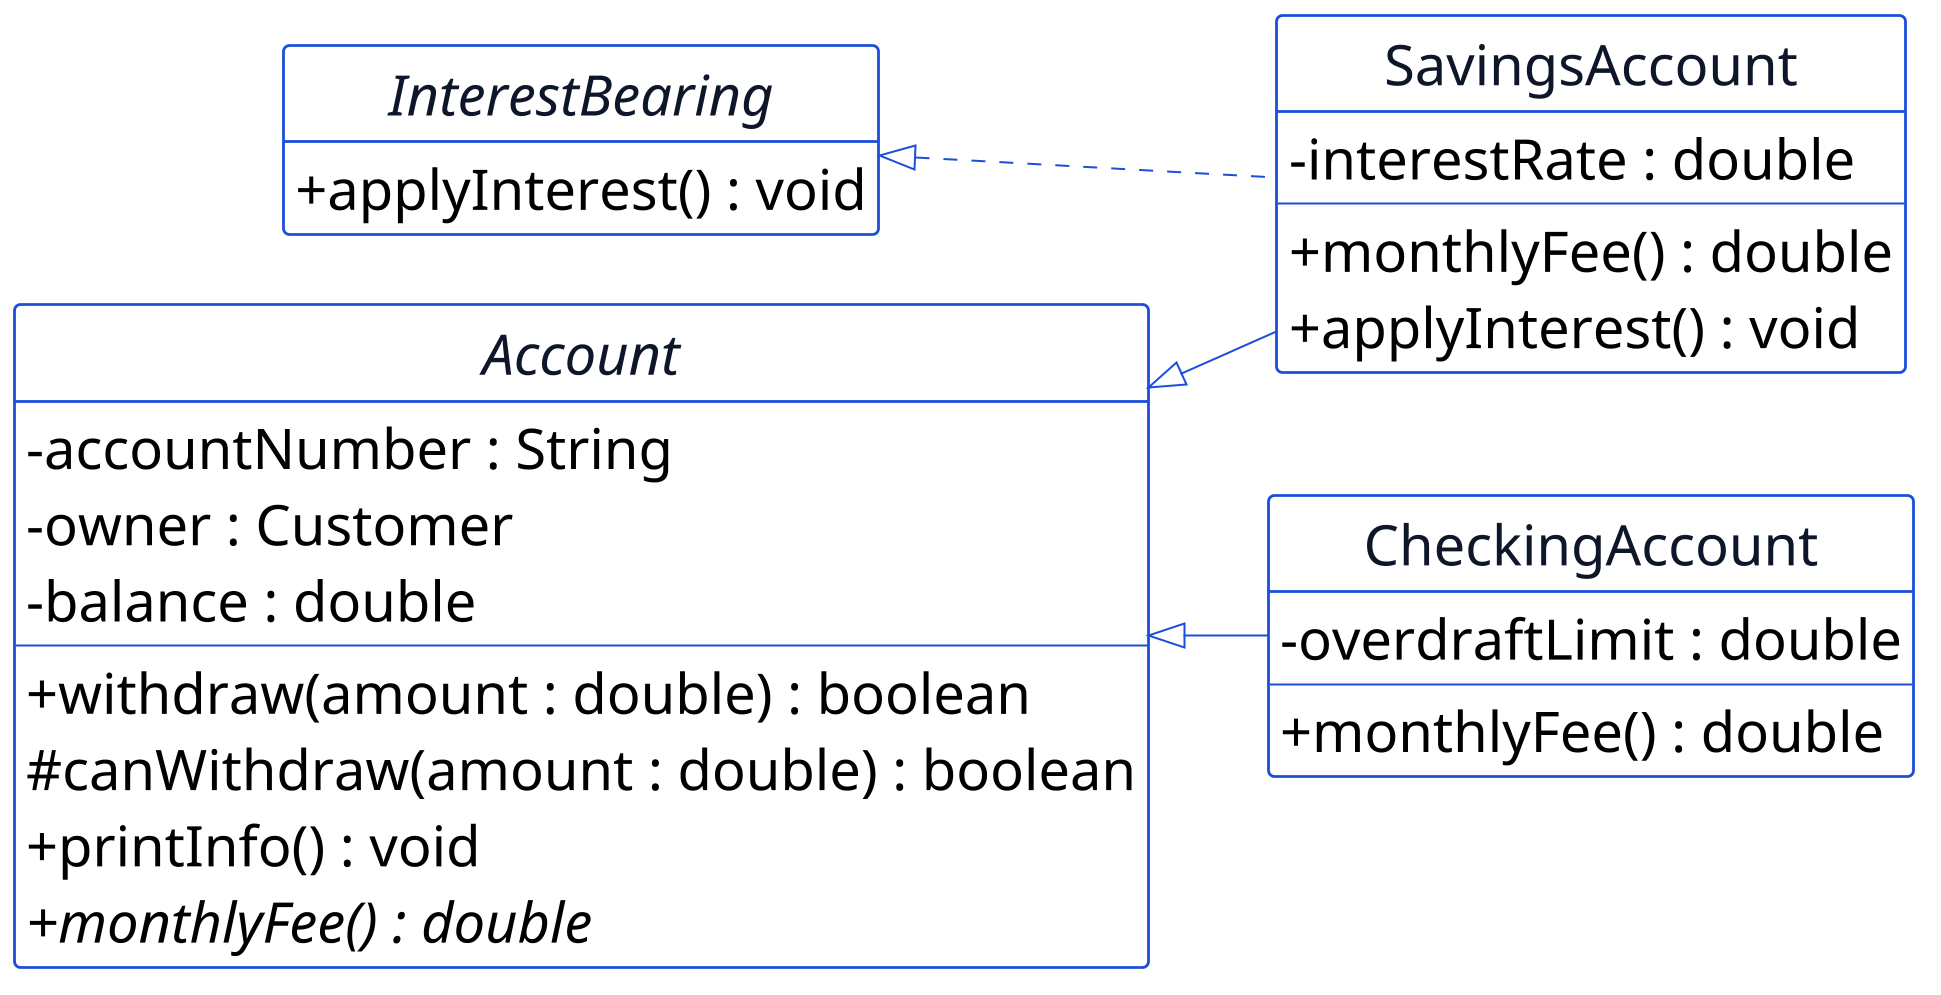
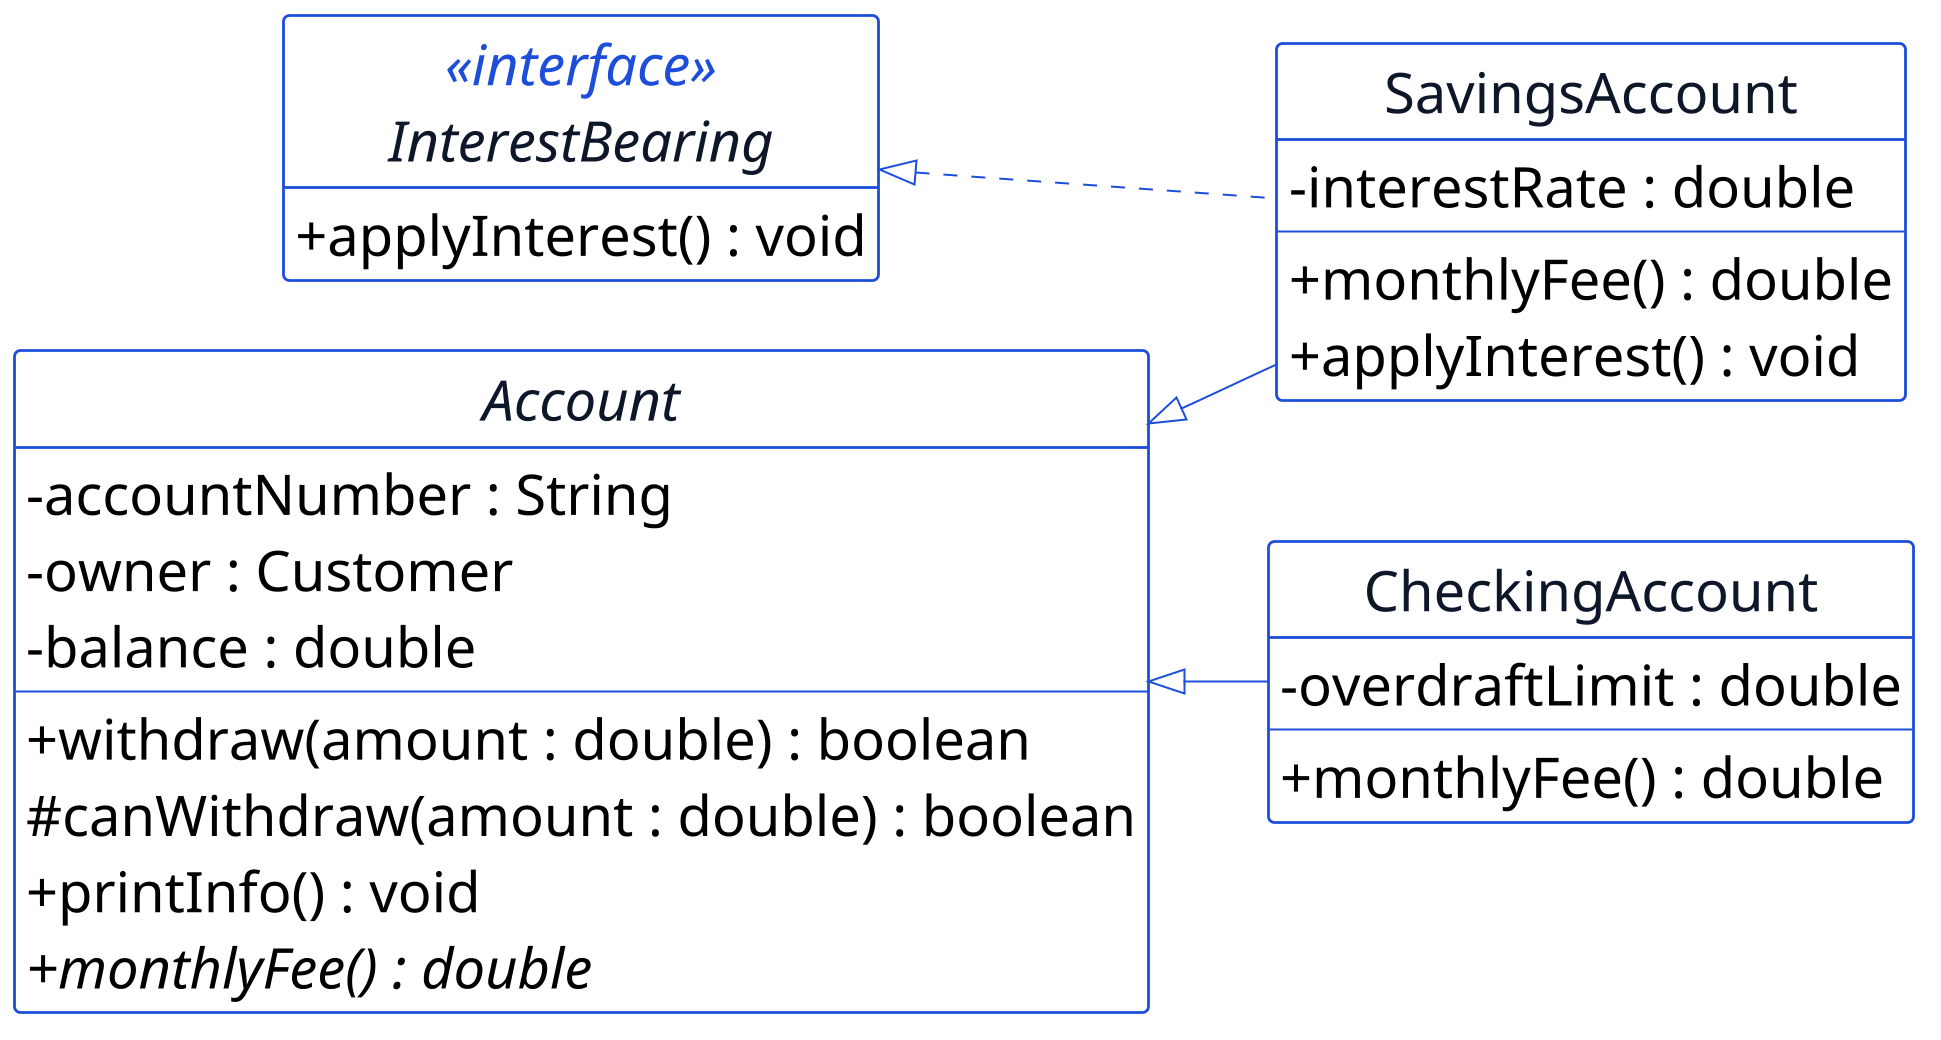
Pertemuan 9 slides: review fixes, interface stereotype in UML
- Label interfaces with <<interface>> in the P9/P10 UML sources and
  regenerate PNGs, so they no longer look like abstract classes
- Fix abstract-method rule wording, add note that interface methods are
  implicitly public
- Replace exercise items that repeated the preceding Common Mistake slide
- Use getTitle() in the LibraryItem trace, clarify continuity with P6/P7
  and the Renewable assignment, fix EN grammar and "library" ambiguity

diff --git a/slides/en/pertemuan-09-kelas-abstrak-dan-interface.md b/slides/en/pertemuan-09-kelas-abstrak-dan-interface.md
@@ -167,7 +167,7 @@ An <b>abstract class</b> is a class that is not yet complete. Its objects may no
 
 ## Why Does This Matter?
 
-A display library is used by hundreds of applications. Every component must know how to draw itself. Without abstract classes, a component that does not yet know how to draw could still be created, and the mistake would only show up when a user runs the application.
+A UI framework is used by hundreds of applications. Every component must know how to draw itself. Without abstract classes, a component that does not yet know how to draw could still be created, and the mistake would only show up when a user runs the application.
 
 <div class="term-box">
 An abstract class moves that mistake to compile time. The compiler rejects it, rather than a user discovering it.
@@ -181,7 +181,7 @@ An abstract class moves that mistake to compile time. The compiler rejects it, r
 An <b>abstract method</b> has only a signature, with no body. Every subclass must fill it in through overriding. Until it is filled in, that subclass cannot be compiled.
 </div>
 
-An abstract method may only be written inside an abstract class.
+Among classes, only an abstract class may contain an abstract method. A subclass that is also abstract may leave it empty.
 
 ---
 
@@ -253,7 +253,7 @@ Output: `small circle: 12.56`
 `Shape` is an abstract class with an abstract method `area()`. Decide **valid** or **error**:
 
 1. `Shape s = new Shape("x");`
-2. `class Square extends Shape { }` (without `area()`)
+2. `Shape[] shapes = new Shape[3];`
 3. `Shape s = new Circle("c", 1);`
 
 ---
@@ -261,7 +261,7 @@ Output: `small circle: 12.56`
 ## Exercise Answer
 
 1. **Error.** An object of an abstract class may not be created.
-2. **Error.** `Square` has not filled in the abstract method `area()`.
+2. **Valid.** This only creates an array that can hold `Shape` references. No `Shape` object has been created yet.
 3. **Valid.** The object is a `Circle`, a complete class. Its variable may be of type `Shape`.
 
 ---
@@ -329,13 +329,17 @@ class Phone implements Chargeable {
 }
 ```
 
+<div class="tip-box">
+Methods in an interface are automatically <code>public</code>, so a class that fills them in must also write <code>public</code>.
+</div>
+
 ---
 
 ## Interfaces in a Class Diagram
 
 ![h:280 Chargeable implemented by Phone and ElectricCar](../assets/uml/p09-chargeable.png)
 
-An interface's name is also written in italics. The difference is in the arrow: it is dashed, pointing from the class to the interface it implements.
+An interface carries the label `«interface»` above its name. Its arrow is dashed with a hollow triangle head, pointing from the class to the interface it implements.
 
 ---
 
@@ -353,7 +357,7 @@ Phone is charging
 Car is charging
 ```
 
-The loop only knows `Chargeable`. Each object runs its own `charge()`.
+The loop only knows `Chargeable`. Each object runs its own `charge()`. `ElectricCar` is written with the same pattern as `Phone`.
 
 ---
 
@@ -368,7 +372,7 @@ class Phone implements Chargeable, Connectable {
 }
 ```
 
-A class may `extends` only one superclass, but may `implements` many interfaces.
+A class may extend only one superclass (`extends`), but may implement many interfaces (`implements`).
 
 ---
 
@@ -386,7 +390,7 @@ A class may `extends` only one superclass, but may `implements` many interfaces.
 
 `Chargeable` has a method `charge()`. `Connectable` has a method `connect()`. Decide **valid** or **error**:
 
-1. `class Laptop extends Chargeable { ... }`
+1. `class Laptop implements Chargeable { void charge() { } }` (without `public`)
 2. `class Laptop implements Chargeable { }` (without `charge()`)
 3. `class Laptop implements Chargeable, Connectable` with `charge()` and `connect()` filled in
 
@@ -394,9 +398,9 @@ A class may `extends` only one superclass, but may `implements` many interfaces.
 
 ## Exercise Answer
 
-1. **Error.** An interface is used with `implements`, not `extends`.
+1. **Error.** Interface methods are automatically `public`, so `charge()` in `Laptop` must also be `public`.
 2. **Error.** `Laptop` promises to fill in `charge()`, but has not done so.
-3. **Valid.** One class may `implements` many interfaces, as long as every method is filled in.
+3. **Valid.** One class may implement many interfaces, as long as every method is filled in.
 
 ---
 
@@ -404,7 +408,7 @@ A class may `extends` only one superclass, but may `implements` many interfaces.
 
 - An interface is a list of methods with no bodies, used through `implements`.
 - Unrelated classes can use the same interface.
-- One class may `implements` many interfaces.
+- One class may implement many interfaces.
 
 Next: Part 3 covers how to choose between an abstract class and an interface.
 
@@ -482,11 +486,11 @@ Output: `Beep!` then `Car is charging`. There is one object, but it can be held 
 
 ## Exercise
 
-Choose **abstract class** or **interface**:
+Choose **abstract class**, **interface**, or **both**:
 
 1. `Animal` as the parent of `Cat` and `Dog`, with a shared attribute `name`.
 2. The capability "can be printed" (`print()`) for `Invoice`, `Photo`, and `Ticket`.
-3. `Employee` as the parent of `Manager` and `Staff`, with a shared attribute `baseSalary`.
+3. `Dog` is an `Animal`, and only `Dog` can be trained through `train()` (`Cat` cannot).
 
 ---
 
@@ -494,7 +498,7 @@ Choose **abstract class** or **interface**:
 
 1. **Abstract class.** `Cat` and `Dog` are one family and share the attribute `name`.
 2. **Interface.** `Invoice`, `Photo`, and `Ticket` are unrelated; "can be printed" is an extra capability.
-3. **Abstract class.** `Manager` and `Staff` are one family and share the attribute `baseSalary`.
+3. **Both.** `Dog` inherits the abstract class `Animal` (one family), and `implements` an interface for the `train()` capability that `Cat` does not have.
 
 ---
 
@@ -502,7 +506,7 @@ Choose **abstract class** or **interface**:
 
 - One family with shared attributes: abstract class.
 - An extra capability for any class: interface.
-- One class may `extends` one abstract class and `implements` several interfaces at once.
+- One class may extend one abstract class and implement several interfaces at once.
 
 Next: Part 4 uses both on the library collection.
 
@@ -519,7 +523,7 @@ Session 4 of 4
 
 ## Back to the Library
 
-In the previous meetings, `Book`, `Dvd`, and `Magazine` inherited from `LibraryItem`. Three things are still unresolved:
+In the previous meetings, `Book`, `Dvd`, and `Magazine` inherited from `LibraryItem`. The attributes and methods from those meetings are still there; this slide only shows the parts that change. Three things are still unresolved:
 
 1. `new LibraryItem("?")` can still be created, even though no "general item" sits on a shelf.
 2. Each kind of item has its own late fee, but nothing requires it.
@@ -544,6 +548,7 @@ abstract class LibraryItem {
     protected String title;
     public LibraryItem(String title) { this.title = title; }
 
+    public String getTitle() { return title; }
     public abstract int lateFeePerDay();   // must be filled in by each kind of item
 }
 ```
@@ -586,7 +591,7 @@ class Dvd extends LibraryItem implements Playable {
 ```java
 LibraryItem[] items = { new Book("Dune"), new Dvd("Inception") };
 for (LibraryItem item : items) {
-    System.out.println(item.title + ": " + item.lateFeePerDay());
+    System.out.println(item.getTitle() + ": " + item.lateFeePerDay());
 }
 ```
 
@@ -621,7 +626,7 @@ class Magazine ________ LibraryItem {
 }
 ```
 
-2. Does `Magazine` need to declare `implements Playable`? Yes or no?
+2. Digital magazines can now be played. What must be added to `Magazine`?
 
 ---
 
@@ -635,7 +640,7 @@ class Magazine extends LibraryItem {
 }
 ```
 
-**No.** A magazine cannot be played, so it need not promise to fill in `play()`.
+Question 2: `implements Playable`, then fill in `play()`. Only a class that needs the capability promises to fill it in.
 
 ---
 
@@ -674,7 +679,7 @@ Hands-on practice for this material is available in the Practicum: Object-Orient
 
 ## Assignment: The Library Collection
 
-The library adds `AudioBook` and a new rule: only books and magazines may have their loans renewed.
+The library adds `AudioBook` and a new rule: only `Book` and `Magazine` may have their loans renewed.
 
 1. `AudioBook` is a kind of item that can be played. Write its class declaration line (`class AudioBook ...`).
 2. Create an interface `Renewable` with one method. Which classes declare `implements Renewable`?

diff --git a/slides/id/pertemuan-09-kelas-abstrak-dan-interface.md b/slides/id/pertemuan-09-kelas-abstrak-dan-interface.md
@@ -167,7 +167,7 @@ Bayangkan resep dasar kue yang satu langkahnya masih kosong: "isi sesuai selera"
 
 ## Mengapa Ini Penting?
 
-Sebuah library tampilan dipakai ratusan aplikasi. Setiap komponen wajib tahu cara menggambar dirinya. Tanpa kelas abstrak, komponen yang belum tahu cara menggambar bisa lolos dibuat, dan kesalahannya baru terlihat saat aplikasi dipakai pengguna.
+Sebuah framework tampilan dipakai ratusan aplikasi. Setiap komponen wajib tahu cara menggambar dirinya. Tanpa kelas abstrak, komponen yang belum tahu cara menggambar bisa lolos dibuat, dan kesalahannya baru terlihat saat aplikasi dipakai pengguna.
 
 <div class="term-box">
 Kelas abstrak memindahkan kesalahan itu ke saat kompilasi. Compiler yang menolaknya, bukan pengguna yang menemukannya.
@@ -181,7 +181,7 @@ Kelas abstrak memindahkan kesalahan itu ke saat kompilasi. Compiler yang menolak
 <b>Method abstrak</b> hanya punya signature, tanpa isi. Setiap subclass wajib mengisinya lewat overriding. Bila belum diisi, subclass itu tidak bisa dikompilasi.
 </div>
 
-Method abstrak hanya boleh ditulis di dalam kelas abstrak.
+Di antara kelas, hanya kelas abstrak yang boleh berisi method abstrak. Subclass yang juga abstrak boleh membiarkannya kosong.
 
 ---
 
@@ -253,7 +253,7 @@ Output: `small circle: 12.56`
 `Shape` adalah kelas abstrak dengan method abstrak `area()`. Tentukan **valid** atau **error**:
 
 1. `Shape s = new Shape("x");`
-2. `class Square extends Shape { }` (tanpa `area()`)
+2. `Shape[] shapes = new Shape[3];`
 3. `Shape s = new Circle("c", 1);`
 
 ---
@@ -261,7 +261,7 @@ Output: `small circle: 12.56`
 ## Jawaban Latihan
 
 1. **Error.** Objek kelas abstrak tidak boleh dibuat.
-2. **Error.** `Square` belum mengisi method abstrak `area()`.
+2. **Valid.** Ini hanya membuat array tempat menyimpan `Shape`. Belum ada objek `Shape` yang dibuat.
 3. **Valid.** Objeknya `Circle`, kelas yang sudah lengkap. Variabelnya boleh bertipe `Shape`.
 
 ---
@@ -329,13 +329,17 @@ class Phone implements Chargeable {
 }
 ```
 
+<div class="tip-box">
+Method di interface otomatis <code>public</code>, jadi kelas yang mengisinya juga wajib menulis <code>public</code>.
+</div>
+
 ---
 
 ## Interface pada Diagram Kelas
 
 ![h:280 Chargeable diimplementasikan Phone dan ElectricCar](../assets/uml/p09-chargeable.png)
 
-Nama interface juga ditulis miring. Bedanya ada pada panahnya: bergaris putus-putus, menunjuk dari kelas ke interface yang diimplementasikan.
+Interface diberi label `«interface»` di atas namanya. Panahnya bergaris putus-putus dengan ujung segitiga kosong, menunjuk dari kelas ke interface yang diimplementasikan.
 
 ---
 
@@ -353,7 +357,7 @@ Phone is charging
 Car is charging
 ```
 
-Perulangan hanya mengenal `Chargeable`. Tiap objek menjalankan `charge()` miliknya sendiri.
+Perulangan hanya mengenal `Chargeable`. Tiap objek menjalankan `charge()` miliknya sendiri. `ElectricCar` ditulis dengan pola yang sama seperti `Phone`.
 
 ---
 
@@ -386,7 +390,7 @@ Sebuah kelas hanya boleh `extends` satu superclass, tetapi boleh `implements` ba
 
 `Chargeable` punya method `charge()`. `Connectable` punya method `connect()`. Tentukan **valid** atau **error**:
 
-1. `class Laptop extends Chargeable { ... }`
+1. `class Laptop implements Chargeable { void charge() { } }` (tanpa `public`)
 2. `class Laptop implements Chargeable { }` (tanpa `charge()`)
 3. `class Laptop implements Chargeable, Connectable` dengan `charge()` dan `connect()` terisi
 
@@ -394,7 +398,7 @@ Sebuah kelas hanya boleh `extends` satu superclass, tetapi boleh `implements` ba
 
 ## Jawaban Latihan
 
-1. **Error.** Interface dipakai dengan `implements`, bukan `extends`.
+1. **Error.** Method interface otomatis `public`, jadi `charge()` di `Laptop` juga wajib `public`.
 2. **Error.** `Laptop` berjanji mengisi `charge()`, tetapi belum mengisinya.
 3. **Valid.** Satu kelas boleh `implements` banyak interface, asal semua method terisi.
 
@@ -482,11 +486,11 @@ Output: `Beep!` lalu `Car is charging`. Objeknya satu, tetapi bisa dipegang lewa
 
 ## Latihan
 
-Pilih **kelas abstrak** atau **interface**:
+Pilih **kelas abstrak**, **interface**, atau **keduanya**:
 
 1. `Animal` sebagai induk `Cat` dan `Dog`, dengan atribut `name` yang dipakai bersama.
 2. Kemampuan "bisa dicetak" (`print()`) untuk `Invoice`, `Photo`, dan `Ticket`.
-3. `Employee` sebagai induk `Manager` dan `Staff`, dengan atribut `baseSalary` yang dipakai bersama.
+3. `Dog` adalah `Animal`, dan hanya `Dog` yang bisa dilatih lewat `train()` (`Cat` tidak).
 
 ---
 
@@ -494,7 +498,7 @@ Pilih **kelas abstrak** atau **interface**:
 
 1. **Kelas abstrak.** `Cat` dan `Dog` satu keluarga dan berbagi atribut `name`.
 2. **Interface.** `Invoice`, `Photo`, dan `Ticket` tidak berkerabat; "bisa dicetak" adalah kemampuan tambahan.
-3. **Kelas abstrak.** `Manager` dan `Staff` satu keluarga dan berbagi atribut `baseSalary`.
+3. **Keduanya.** `Dog` mewarisi kelas abstrak `Animal` (satu keluarga), dan `implements` interface untuk kemampuan `train()` yang tidak dimiliki `Cat`.
 
 ---
 
@@ -519,7 +523,7 @@ Sesi 4 dari 4
 
 ## Kembali ke Perpustakaan
 
-Pada pertemuan sebelumnya, `Book`, `Dvd`, dan `Magazine` mewarisi `LibraryItem`. Ada tiga hal yang belum beres:
+Pada pertemuan sebelumnya, `Book`, `Dvd`, dan `Magazine` mewarisi `LibraryItem`. Atribut dan method dari pertemuan itu tetap ada; slide ini hanya menampilkan bagian yang berubah. Ada tiga hal yang belum beres:
 
 1. `new LibraryItem("?")` masih bisa dibuat, padahal tidak ada "koleksi umum" di rak.
 2. Tiap jenis koleksi punya denda keterlambatan sendiri, tetapi tidak ada yang mewajibkannya.
@@ -544,6 +548,7 @@ abstract class LibraryItem {
     protected String title;
     public LibraryItem(String title) { this.title = title; }
 
+    public String getTitle() { return title; }
     public abstract int lateFeePerDay();   // wajib diisi tiap jenis koleksi
 }
 ```
@@ -586,7 +591,7 @@ class Dvd extends LibraryItem implements Playable {
 ```java
 LibraryItem[] items = { new Book("Dune"), new Dvd("Inception") };
 for (LibraryItem item : items) {
-    System.out.println(item.title + ": " + item.lateFeePerDay());
+    System.out.println(item.getTitle() + ": " + item.lateFeePerDay());
 }
 ```
 
@@ -621,7 +626,7 @@ class Magazine ________ LibraryItem {
 }
 ```
 
-2. Perlukah `Magazine` menyatakan `implements Playable`? Ya atau tidak?
+2. Majalah digital kini bisa diputar. Apa yang perlu ditambahkan pada `Magazine`?
 
 ---
 
@@ -635,7 +640,7 @@ class Magazine extends LibraryItem {
 }
 ```
 
-**Tidak.** Majalah tidak bisa diputar, jadi tidak perlu berjanji mengisi `play()`.
+Soal 2: `implements Playable`, lalu isi `play()`. Hanya kelas yang butuh kemampuan itu yang berjanji mengisinya.
 
 ---
 
@@ -674,7 +679,7 @@ Latihan pemrograman untuk materi ini tersedia di jobsheet Praktikum Pemrograman 
 
 ## Tugas: Koleksi Perpustakaan
 
-Perpustakaan menambah `AudioBook` (buku audio) dan aturan baru: hanya buku dan majalah yang pinjamannya bisa diperpanjang.
+Perpustakaan menambah `AudioBook` (buku audio) dan aturan baru: hanya `Book` dan `Magazine` yang pinjamannya bisa diperpanjang.
 
 1. `AudioBook` adalah jenis koleksi yang bisa diputar. Tuliskan baris deklarasi kelasnya (`class AudioBook ...`).
 2. Buat interface `Renewable` dengan satu method. Kelas mana saja yang menyatakan `implements Renewable`?
